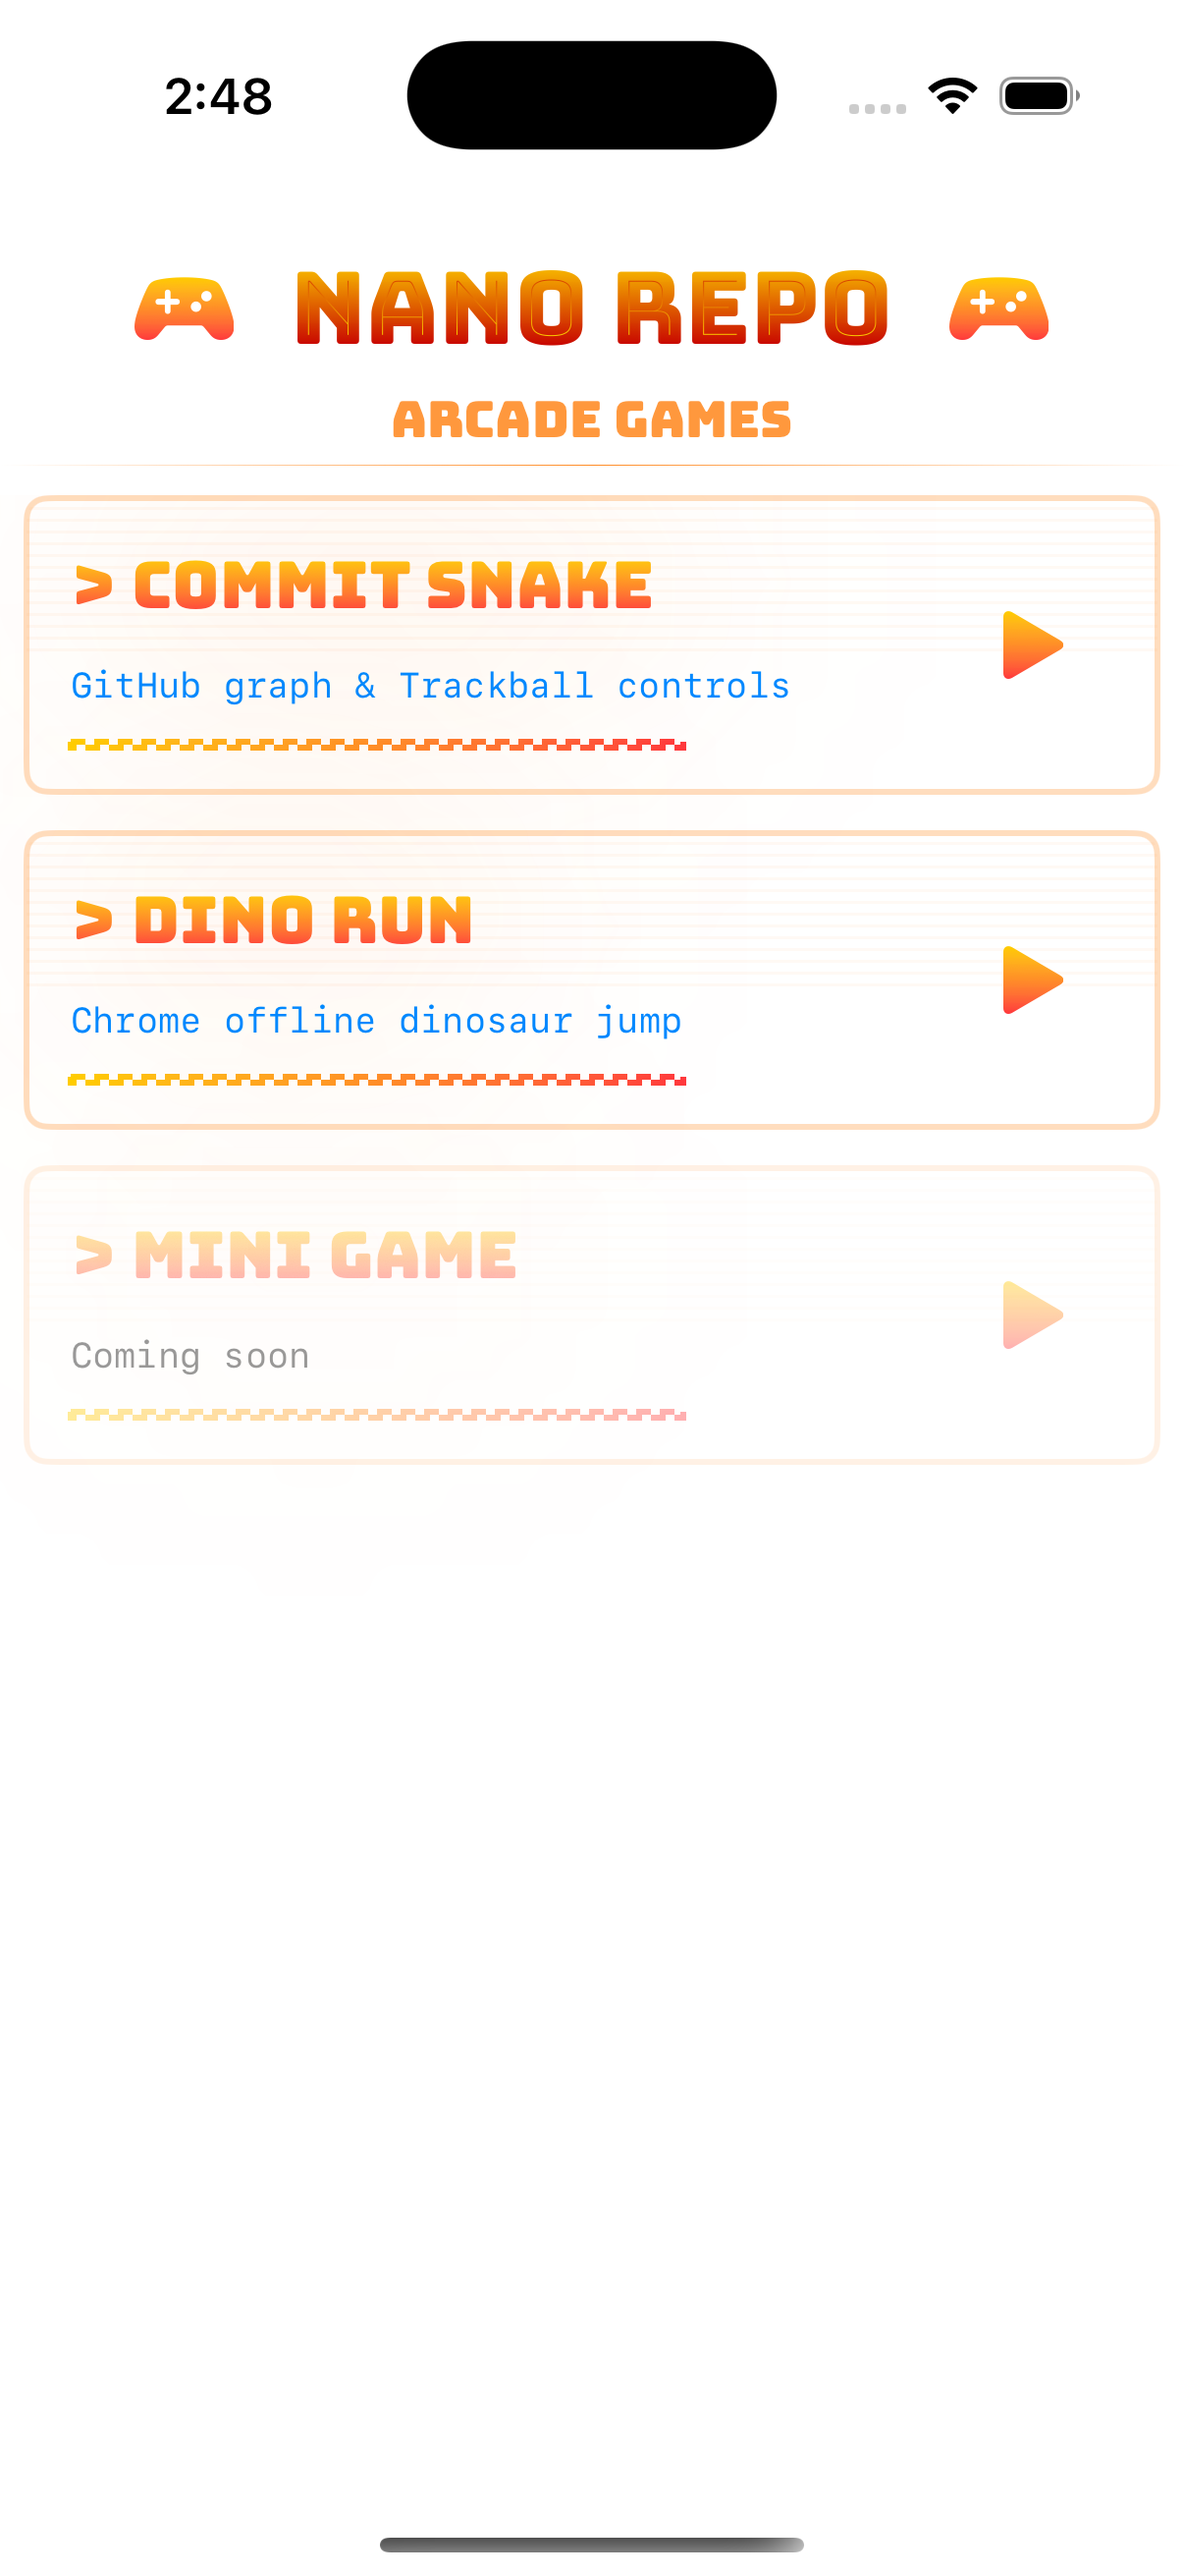
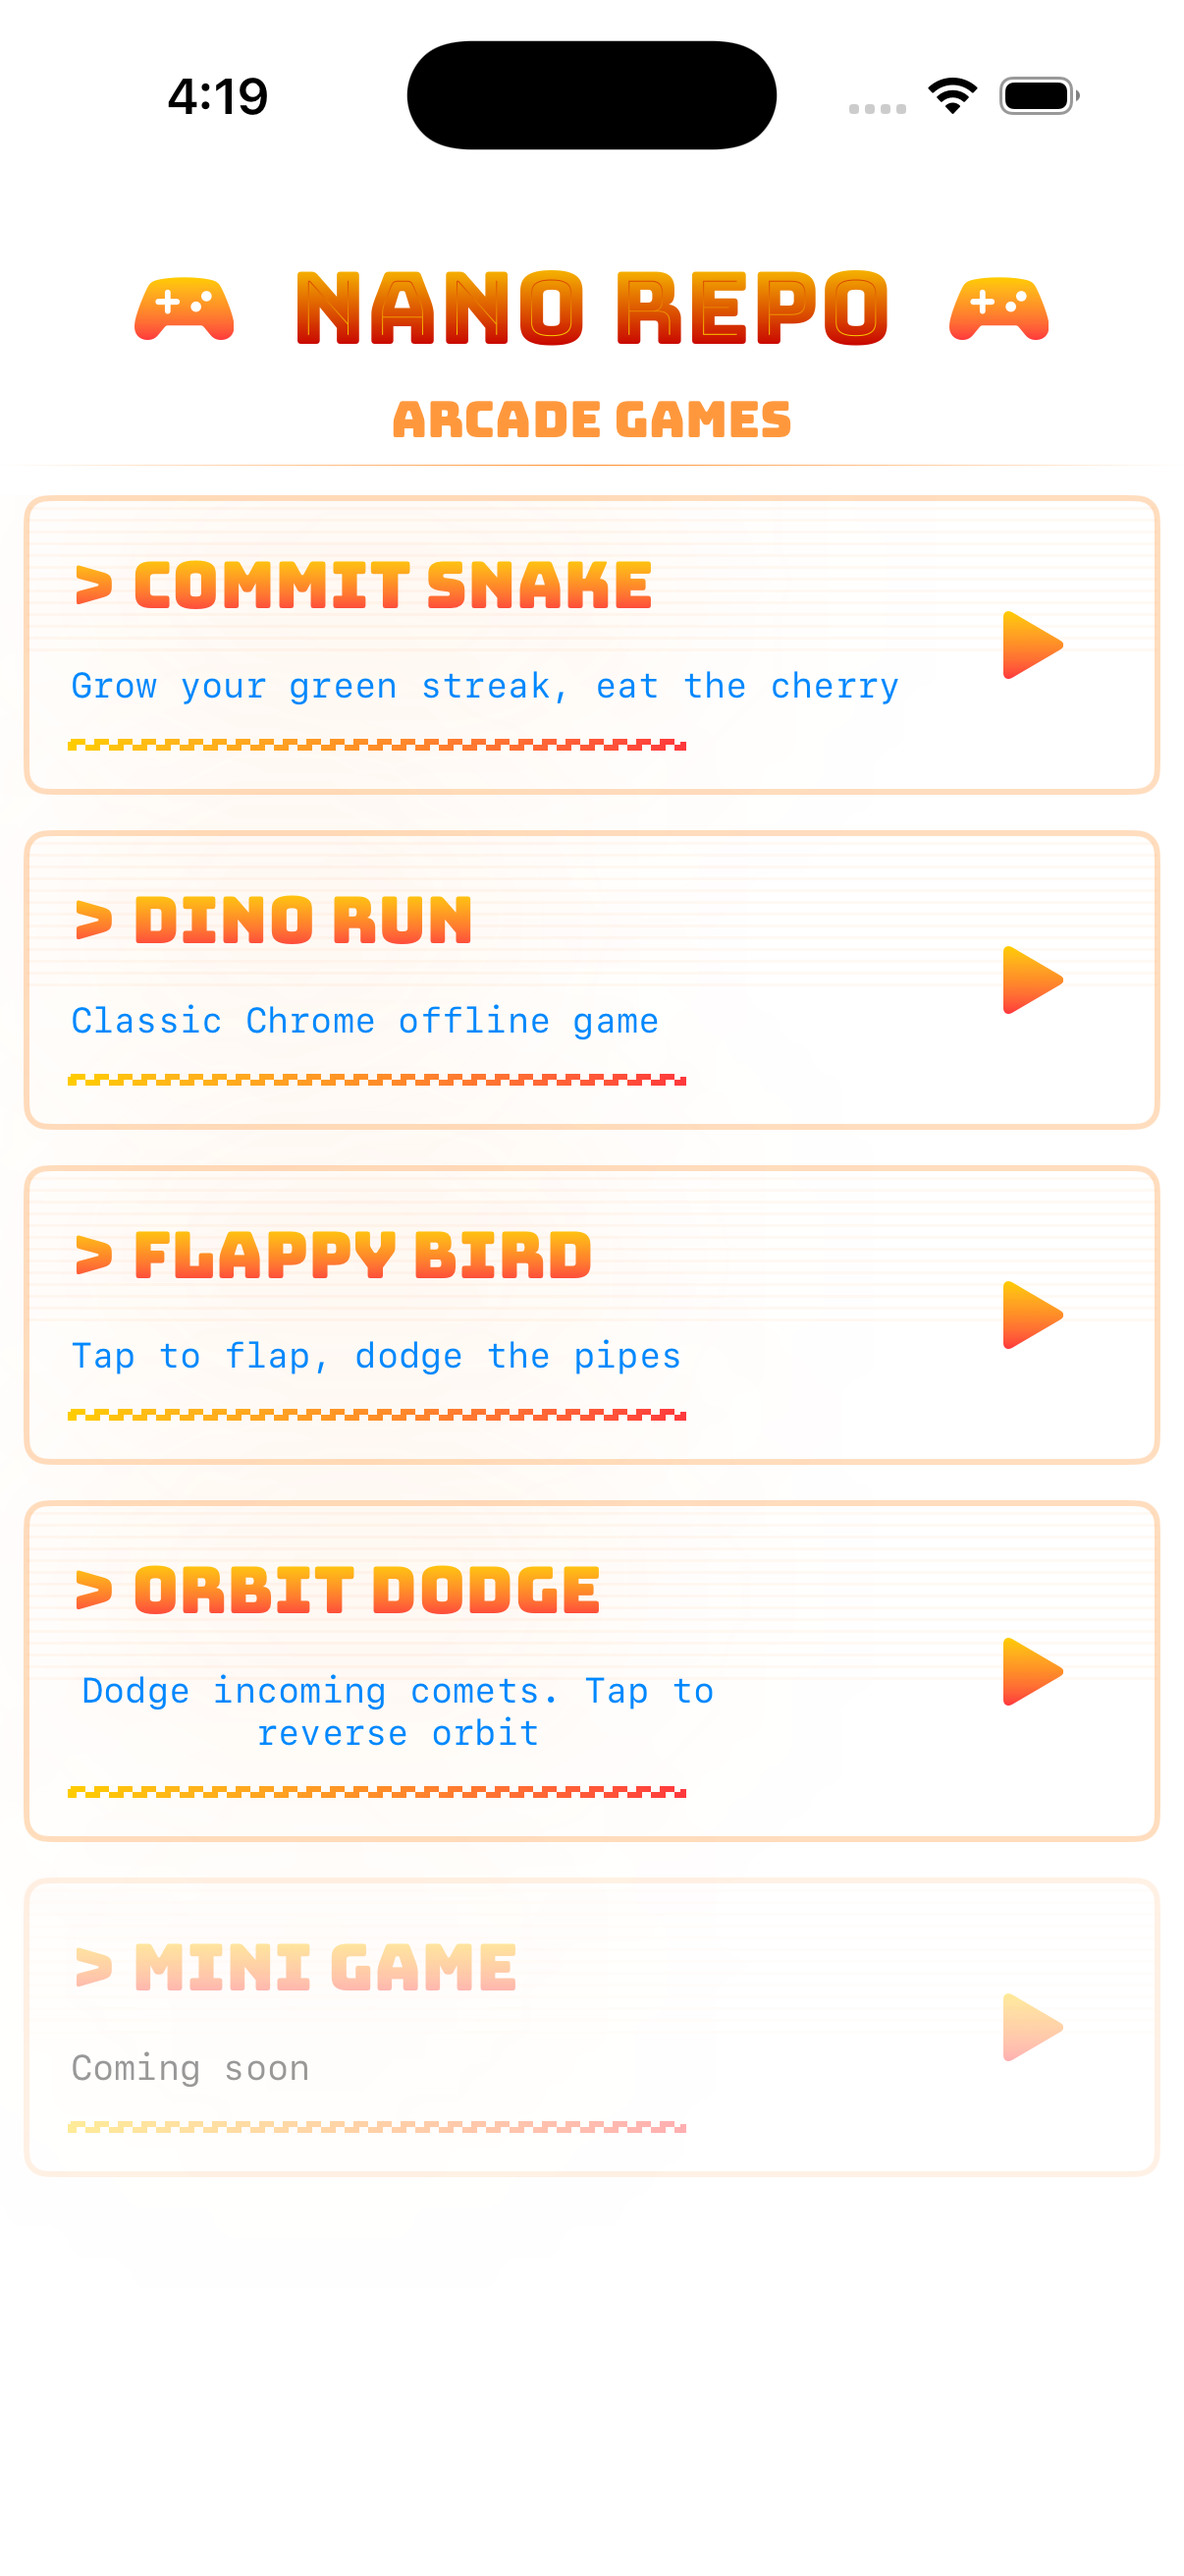
chore: Fix nav & update gif

diff --git a/Monorepo/Monorepo/Core/GameRoute.swift b/Monorepo/Monorepo/Core/GameRoute.swift
@@ -19,6 +19,7 @@ enum GameRoute: Hashable, Identifiable {
     case ComingSoon
     case DinoRun
     case Flappy
+    case Orbit_Dodge
     
     var id: Self { self }
     
@@ -38,6 +39,11 @@ enum GameRoute: Hashable, Identifiable {
             GameInfo(title: "Flappy Bird",
                      note: "Tap to flap, dodge the pipes",
                      icon: "bird.fill",
+                     isAvailable: true)
+        case .Orbit_Dodge:
+            GameInfo(title: "Orbit Dodge",
+                     note: "Dodge incoming comets. Tap to reverse orbit",
+                     icon: "moonphase.full.moon",
                      isAvailable: true)
         case .ComingSoon:
             GameInfo(title: "Mini Game",
@@ -68,6 +74,8 @@ enum GameRoute: Hashable, Identifiable {
             DinoRunGame()
         case .Flappy:
             FlappyBird()
+        case .Orbit_Dodge:
+            OrbitDodge()
         case .ComingSoon:
             Text("Coming Soon!")
         }

diff --git a/Monorepo/Monorepo/App/MonorepoApp.swift b/Monorepo/Monorepo/App/MonorepoApp.swift
@@ -28,9 +28,8 @@ struct MonorepoApp: App {
     
     var body: some Scene {
         WindowGroup {
-            OrbitDodge()
-//            ArcadeHomeView()
-//                .font(.bungeeSpiceLargeTitle)
+            ArcadeHomeView()
+                .font(.bungeeSpiceLargeTitle)
         }
     }
 }

diff --git a/Monorepo/Monorepo/Core/ArcadeHomeView.swift b/Monorepo/Monorepo/Core/ArcadeHomeView.swift
@@ -8,7 +8,7 @@
 import SwiftUI
 
 struct ArcadeHomeView: View {
-    let games: [GameRoute] = [.commitSnake, .DinoRun, .Flappy, .ComingSoon]
+    let games: [GameRoute] = [.commitSnake, .DinoRun, .Flappy, .Orbit_Dodge, .ComingSoon]
     
     var body: some View {
         NavigationStack {

diff --git a/README.md b/README.md
@@ -2,6 +2,9 @@
 
 A collection of interactive mini-games built with SwiftUI, showcasing modern iOS development techniques and creative implementations.
 
+> Built with AI as a coding buddy to make the game smoother and the code easier to read.
+
+
 ## Features
 
 - **Modular Architecture**: Clean enum-based routing system for easy game addition
@@ -11,15 +14,14 @@ A collection of interactive mini-games built with SwiftUI, showcasing modern iOS
 
 ## 🕹 Games & Screenshots(gifs)
 
-> - Commit Snake
-> - Dino Run
-> - Flappy Bird
-
 <table>
   <tr>
     <td width="25%"><img src="images/collections-dark.png" width="100%"/></td>
+    <td width="25%"><img src="gifs/orbit.gif" width="100%"/></td>
     <td width="25%"><img src="gifs/flappy.gif" width="100%"/></td>
     <td width="25%"><img src="gifs/dinoRun.gif" width="100%"/></td>
+  </tr>
+  <tr>
     <td width="25%"><img src="gifs/commitSnake.gif" width="100%"/></td>
   </tr>
 </table>
